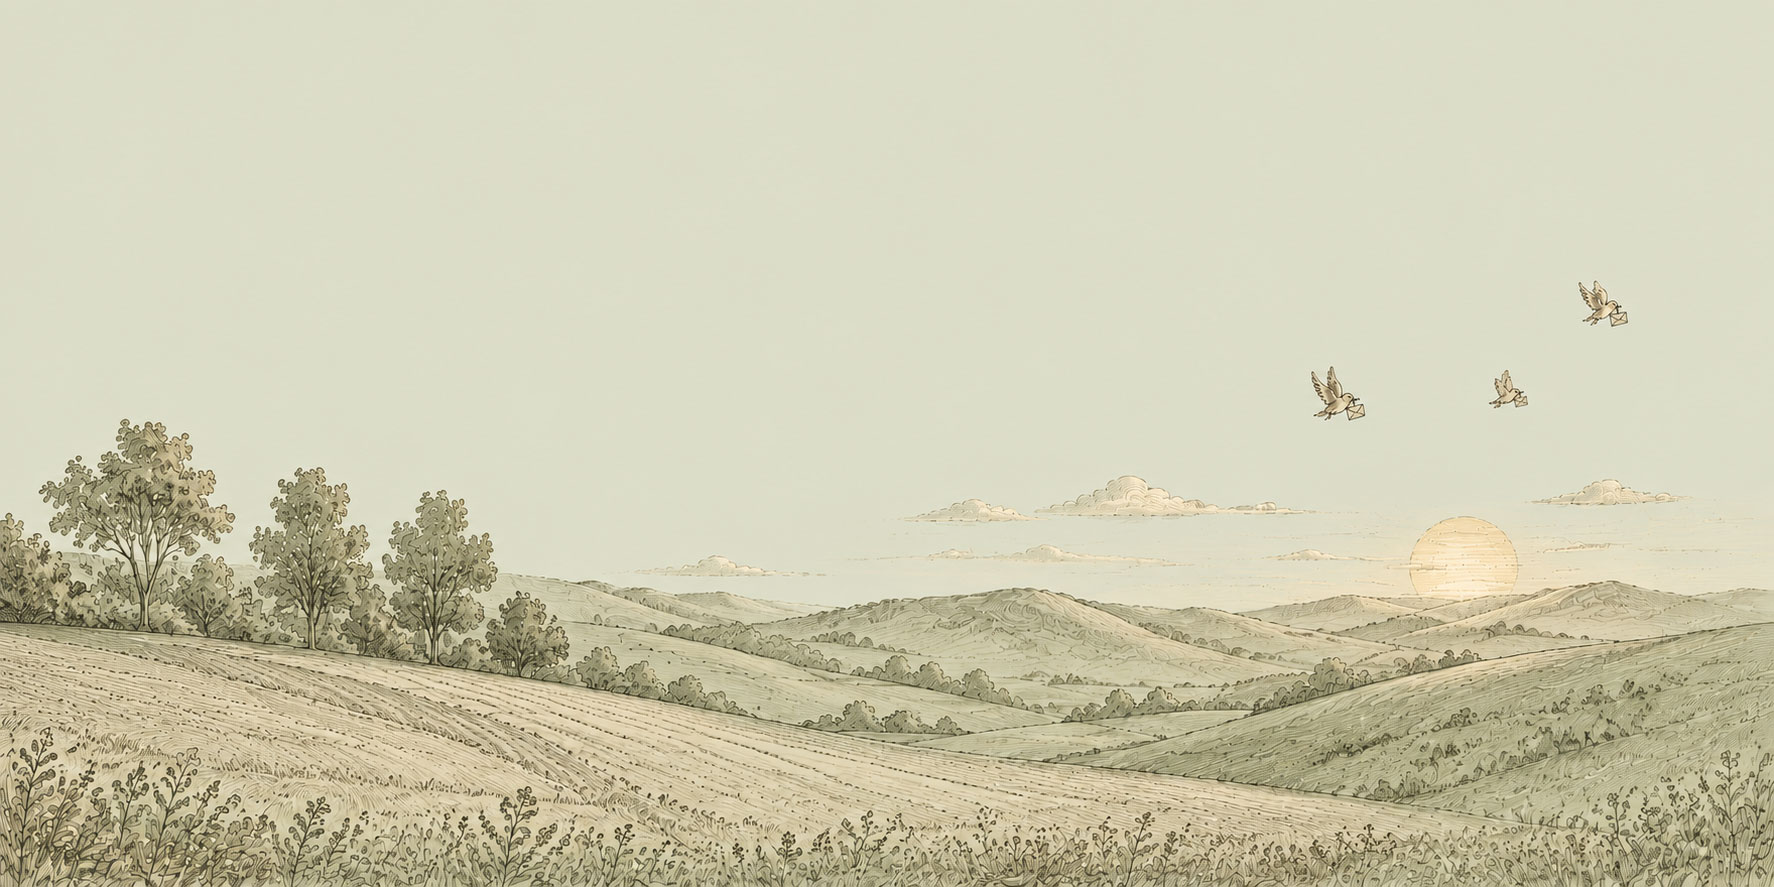
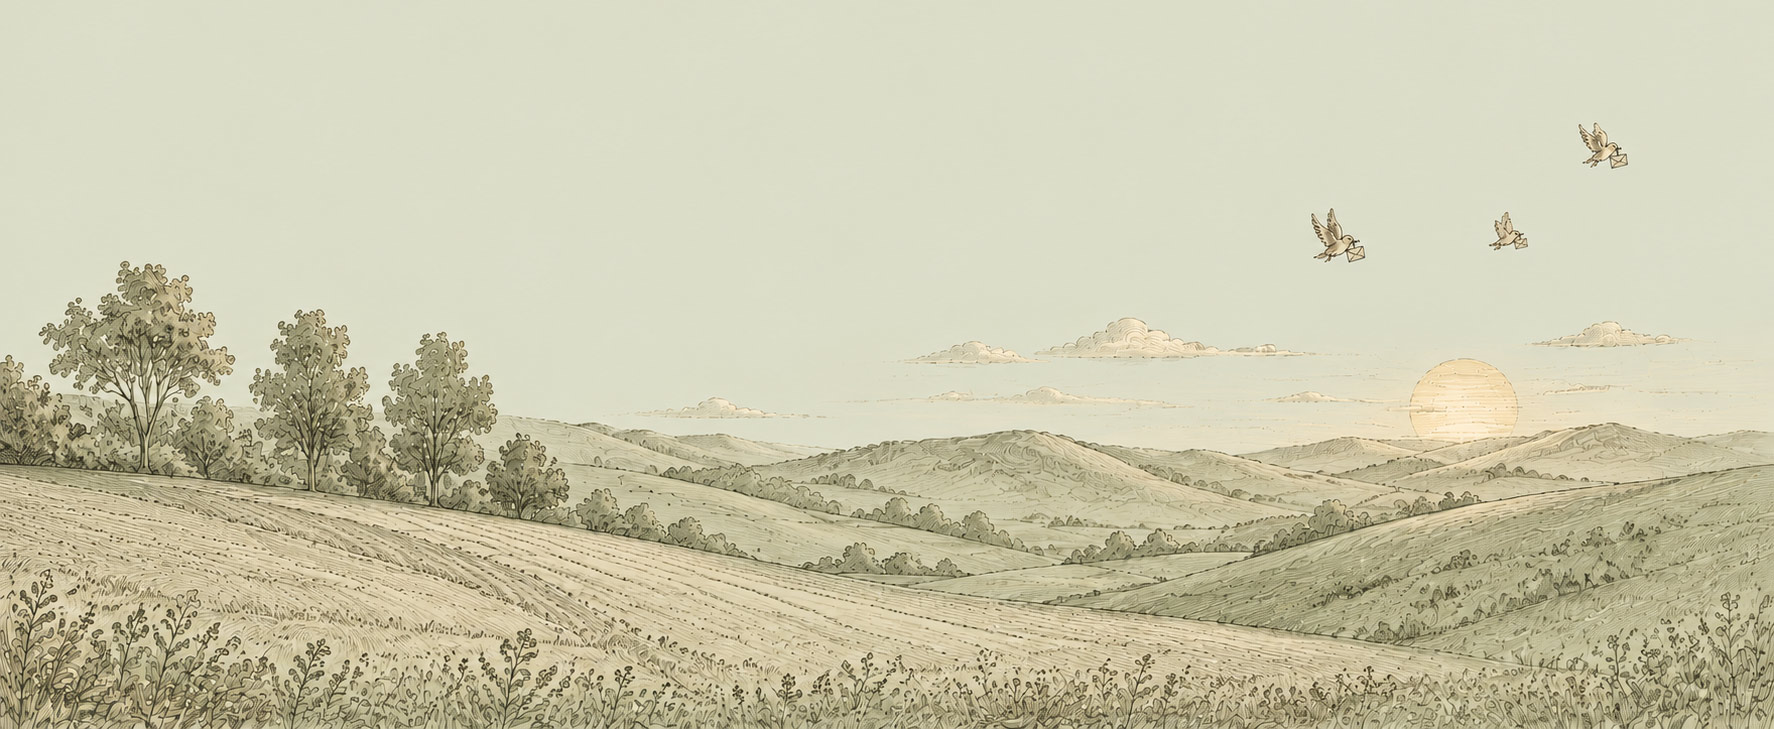
style: footer band matches the shorter footer_bg (1774x729)

diff --git a/styles.css b/styles.css
@@ -295,7 +295,7 @@ section { padding: 96px 0; }
 /* ── Footer: full-bleed artwork band ── */
 .footer {
   width: 100%;
-  aspect-ratio: 1774 / 887; /* shows the artwork edge to edge, uncropped */
+  aspect-ratio: 1774 / 729; /* shows the artwork edge to edge, uncropped */
   background: url('images/footer_bg.jpg') no-repeat center bottom / cover;
 }
 
